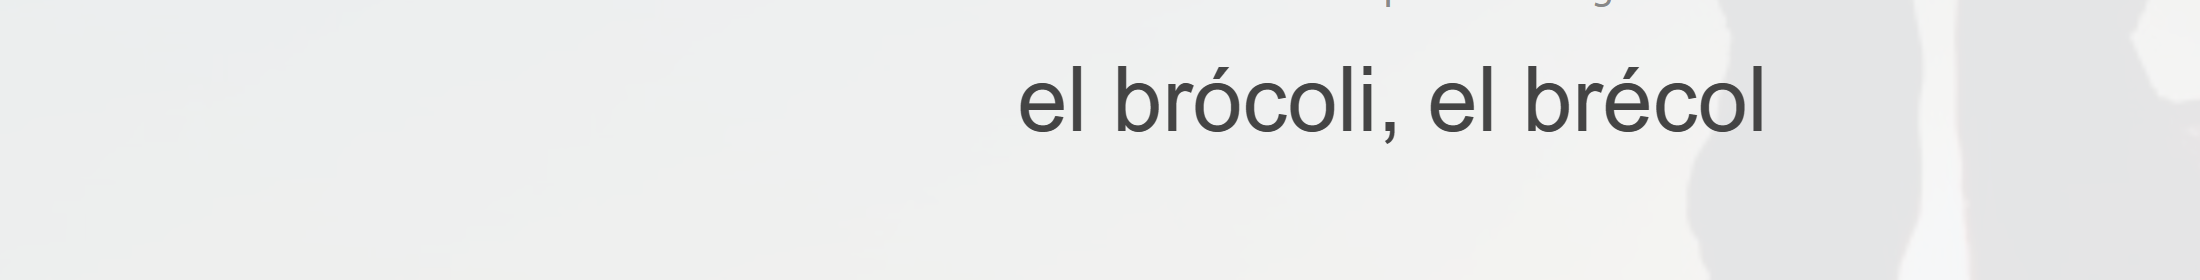
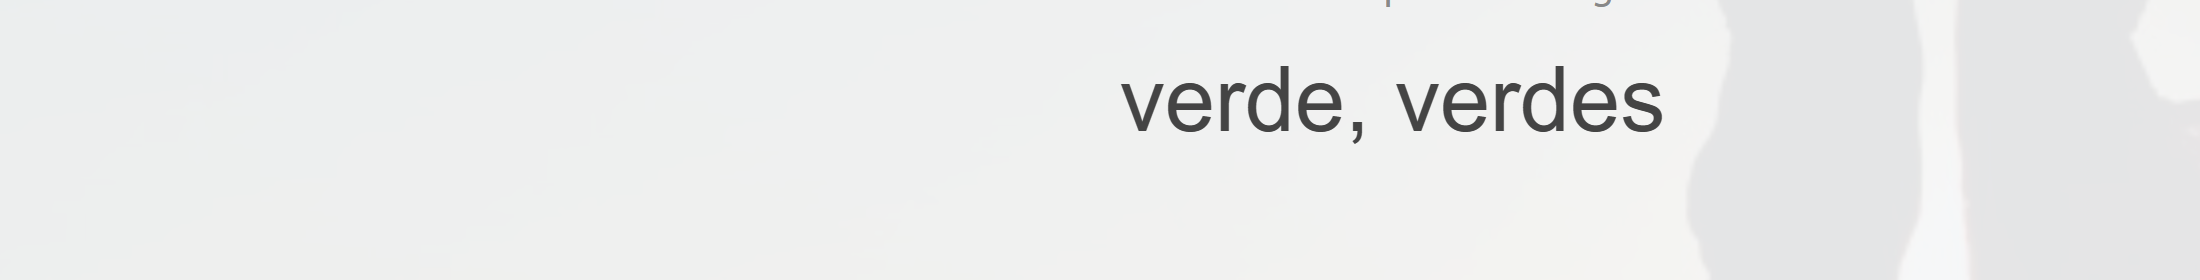
2.1

Changed region(s): [[0.4636, 0.2286, 0.8036, 0.4857]]

diff --git a/OTOV2/OTOV2.py b/OTOV2/OTOV2.py
@@ -7,6 +7,7 @@ import sys
 import os
 import matplotlib.pyplot as plt
 import matplotlib.image as mpimg
+from fuzzywuzzy import fuzz
 
 pytesseract.pytesseract.tesseract_cmd = r'C:\Program Files\Tesseract-OCR\tesseract.exe'
 
@@ -157,9 +158,10 @@ while True:
     elif main_menu_input == "2":
         language_list = []
         train()
-        while True:
+        time.sleep(2)
+        for i in range(20):
             to_type = ''
-            time.sleep(2)
+            time.sleep(0.1)
             # Get the coordinates of the region you want to capture
             # Replace these coordinates with the top-left and bottom-right coordinates of your desired region
             x1, y1 = 300, 720  # Top-left corner
@@ -202,22 +204,23 @@ while True:
                 
             if recognized_text == 'ice cream, ice-cream':
                 sys.exit
-            
 
             for i in language_list:
-                if i[0] == result.lower():
+                if fuzz.partial_ratio(i[0], result.lower()) >= 97:
                     print("recognized text")
                     print(i[1])
                     to_type=i[1]
                     
-            pyautogui.moveTo(1650, 1400, duration=1)
+            pyautogui.moveTo(1650, 1400, duration=0.1)
 
             pyautogui.click()
 
-            pyautogui.typewrite(to_type, interval=0.1)
-            
+            pyautogui.typewrite(to_type, interval=0.01)
+                    
+            if to_type == '':
+                pyautogui.typewrite('?', interval=0.01)
+                pyautogui.press('enter')
 
             # Simulate pressing the "Enter" key
             pyautogui.press('enter')
             
-
